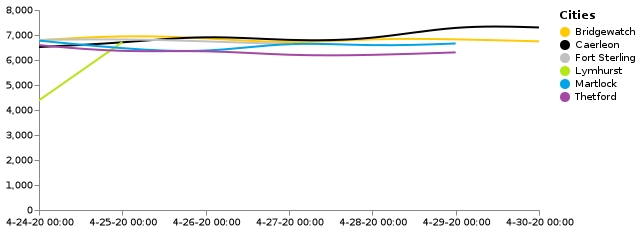
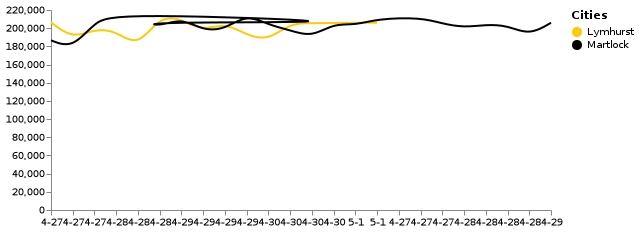
fix for images

Changed region(s): [[0.0, 0.0302, 1.0, 0.9957]]

diff --git a/index.js b/index.js
@@ -13,6 +13,7 @@ const vegaLite = require('vega-lite');
 const fs = require('fs');
 var serveIndex = require('serve-index');
 var serveStatic = require('serve-static');
+const del = require('del');
 
 const app = express()
 const port = 8080
@@ -24,22 +25,28 @@ app.use('/ftp', express.static('/images'), serveIndex('/images', { 'icons': true
 
 app.listen(port, () => console.log(`Example app listening at http://localhost:${port}`))
 
+// Admin //
+var isLocal = true;
+var isMaintenance = false;
+var admins = ["MDobs"];
+
 console.log("starting bot...");
 const mainURL = 'https://www.albion-online-data.com/api/v2/stats';
 const imageURL = "https://gameinfo.albiononline.com/api/gameinfo/items/";
 const graphURL = "https://www.albion-online-data.com/api/v2/stats/charts/";
-const baseImagePath = "http://env-8656818.fr-1.paas.massivegrid.net:8080/images/";
+const baseImagePath = isLocal === true ? "./images/" : "http://env-8656818.fr-1.paas.massivegrid.net:8080/images/";
 
 //T4_BAG ? date = 3 - 29 - 2020 & locations=martlock, bridgewatch & qualities=2 & time - scale=6"
 
 const botID = "703966342159794176";
 const botName = "PricesBot";
 
-// Admin //
-var isMaintenance = false;
-var admins = ["MDobs"];
+
 
 var _message = {};
+
+// init functions //
+removeGraphs();
 
 bot.on("message", (message) => {
     console.log(message);
@@ -98,14 +105,14 @@ bot.on("message", (message) => {
         _weekOldDate = _weekOldDate.format("M-D-YYYY");
         // date=4-24-2020
         fetchGraph(what, _weekOldDate, where, quality, enchantment, (data) => {
-            console.log(">>>> GRAPH >>>>>> \n", data);
+            console.log(">>>> GRAPH >>>>>> \n", data, data[0].timestamps);
 
             renderGraph(data, (imgURL) => {
 
                 // LIST RENDERING //
 
                 fetchPrices(what, where, quality, enchantment, (data) => {
-                    console.log(data);
+                    //console.log(data);
 
                     if (data.length === 0) {
                         message.channel.send("Nothing found, make sure you use proper commands, for help type -help");
@@ -116,7 +123,7 @@ bot.on("message", (message) => {
                         return o.sell_price_min;
                     });
 
-                    console.log(">>>>> ", data);
+                    // console.log(">>>>> ", data);
 
                     let topPrices = [];
                     let embedPrices = [];
@@ -369,12 +376,12 @@ function fetchPrices(items, locations, qualities, tier, callback) {
         }
     }
 
-    console.log(options.hostname + options.path);
+    //console.log(options.hostname + options.path);
 
     axios.get(options.hostname + options.path)
         .then(response => {
-            console.log(response.data.url);
-            console.log(response.data.explanation);
+            //console.log(response.data.url);
+            //console.log(response.data.explanation);
 
             if (callback) {
                 callback(response.data);
@@ -397,9 +404,13 @@ function fetchPrices(items, locations, qualities, tier, callback) {
  * @param {*} callback
  */
 function fetchGraph(items, date, locations, qualities, tier, callback) {
+
+    if (qualities <= 0) {
+        qualities = 1;
+    }
     const options = {
         hostname: graphURL,
-        path: escape(items + tier) + "?date=" + date + "&locations=" + locations + "&qualities=" + qualities + "&time-scale=24",
+        path: escape(items + tier) + "?date=" + date + "&locations=" + locations + "&qualities=" + qualities + "&time-scale=6",
         method: 'GET',
         headers: {
             'Content-Type': 'application/json'
@@ -427,6 +438,24 @@ function fetchGraph(items, date, locations, qualities, tier, callback) {
 /**
  *
  *
+ */
+async function removeGraphs() {
+    const fsPromises = require('fs').promises;
+
+    const directory = './images/';
+
+    // await fsPromises.rmdir(directory, {
+    //     recursive: true
+    // });
+
+    const deletedPaths = await del(['images/*.jpg', 'images/*.png']);
+
+    console.log('Deleted files in images:\n', deletedPaths.join('\n'));
+}
+
+/**
+ *
+ *
  * @param {*} data
  */
 function makeGraphJSON(data) {
@@ -446,14 +475,15 @@ function makeGraphJSON(data) {
             _dataList.push({
                 city: o.location,
                 timestamp: moment(new Date(items.timestamps[i])).format("M-D-YY HH:mm"),
-                price: items.prices_avg[i]
+                price: items.prices_avg[i],
+                xLabel: moment(new Date(items.timestamps[i])).format('M-D')
             });
         }
     });
 
     _dataList = _.sortBy(_dataList, [function(o) { return o.city; }]);
 
-    console.log(_dataList);
+    console.log("DATA GRAPH: \n", _dataList);
 
     var colors = {
         "bridgewatch": "#FFCA05",
@@ -484,9 +514,14 @@ function makeGraphJSON(data) {
         "padding": 5,
 
         "signals": [{
-            "name": "interpolate",
-            "value": "basis"
-        }],
+                "name": "interpolate",
+                "value": "basis"
+            },
+            {
+                "name": "xL",
+                "update": "data('table')"
+            }
+        ],
 
         "data": [{
             "name": "table",
@@ -520,7 +555,13 @@ function makeGraphJSON(data) {
                 "range": "category",
                 "domain": { "data": "table", "field": "city" },
                 "round": true
-            }
+            },
+            {
+                "name": "xLabels",
+                "type": "ordinal",
+                "domain": { "data": "table", "field": "timestamp" },
+                "range": { "signal": "xL" }
+            },
         ],
         "legends": [{
             "fill": "color",
@@ -531,8 +572,13 @@ function makeGraphJSON(data) {
                 "labels": { "update": { "text": { "field": "value" } } }
             }
         }],
-        "axes": [
-            { "orient": "bottom", "scale": "x" },
+        "axes": [{
+                "scale": "x",
+                "orient": "bottom",
+                "encode": {
+                    "labels": { "update": { "text": { "signal": "scale('xLabels', datum.value).xLabel" } } }
+                }
+            },
             { "orient": "left", "scale": "y" }
         ],
 
@@ -542,7 +588,7 @@ function makeGraphJSON(data) {
                 "facet": {
                     "name": "series",
                     "data": "table",
-                    "groupby": "city"
+                    "groupby": ["city"]
                 }
             },
             "marks": [{
@@ -571,5 +617,7 @@ function makeGraphJSON(data) {
     return obj;
 
 }
+
+
 
 bot.login(key.key);
